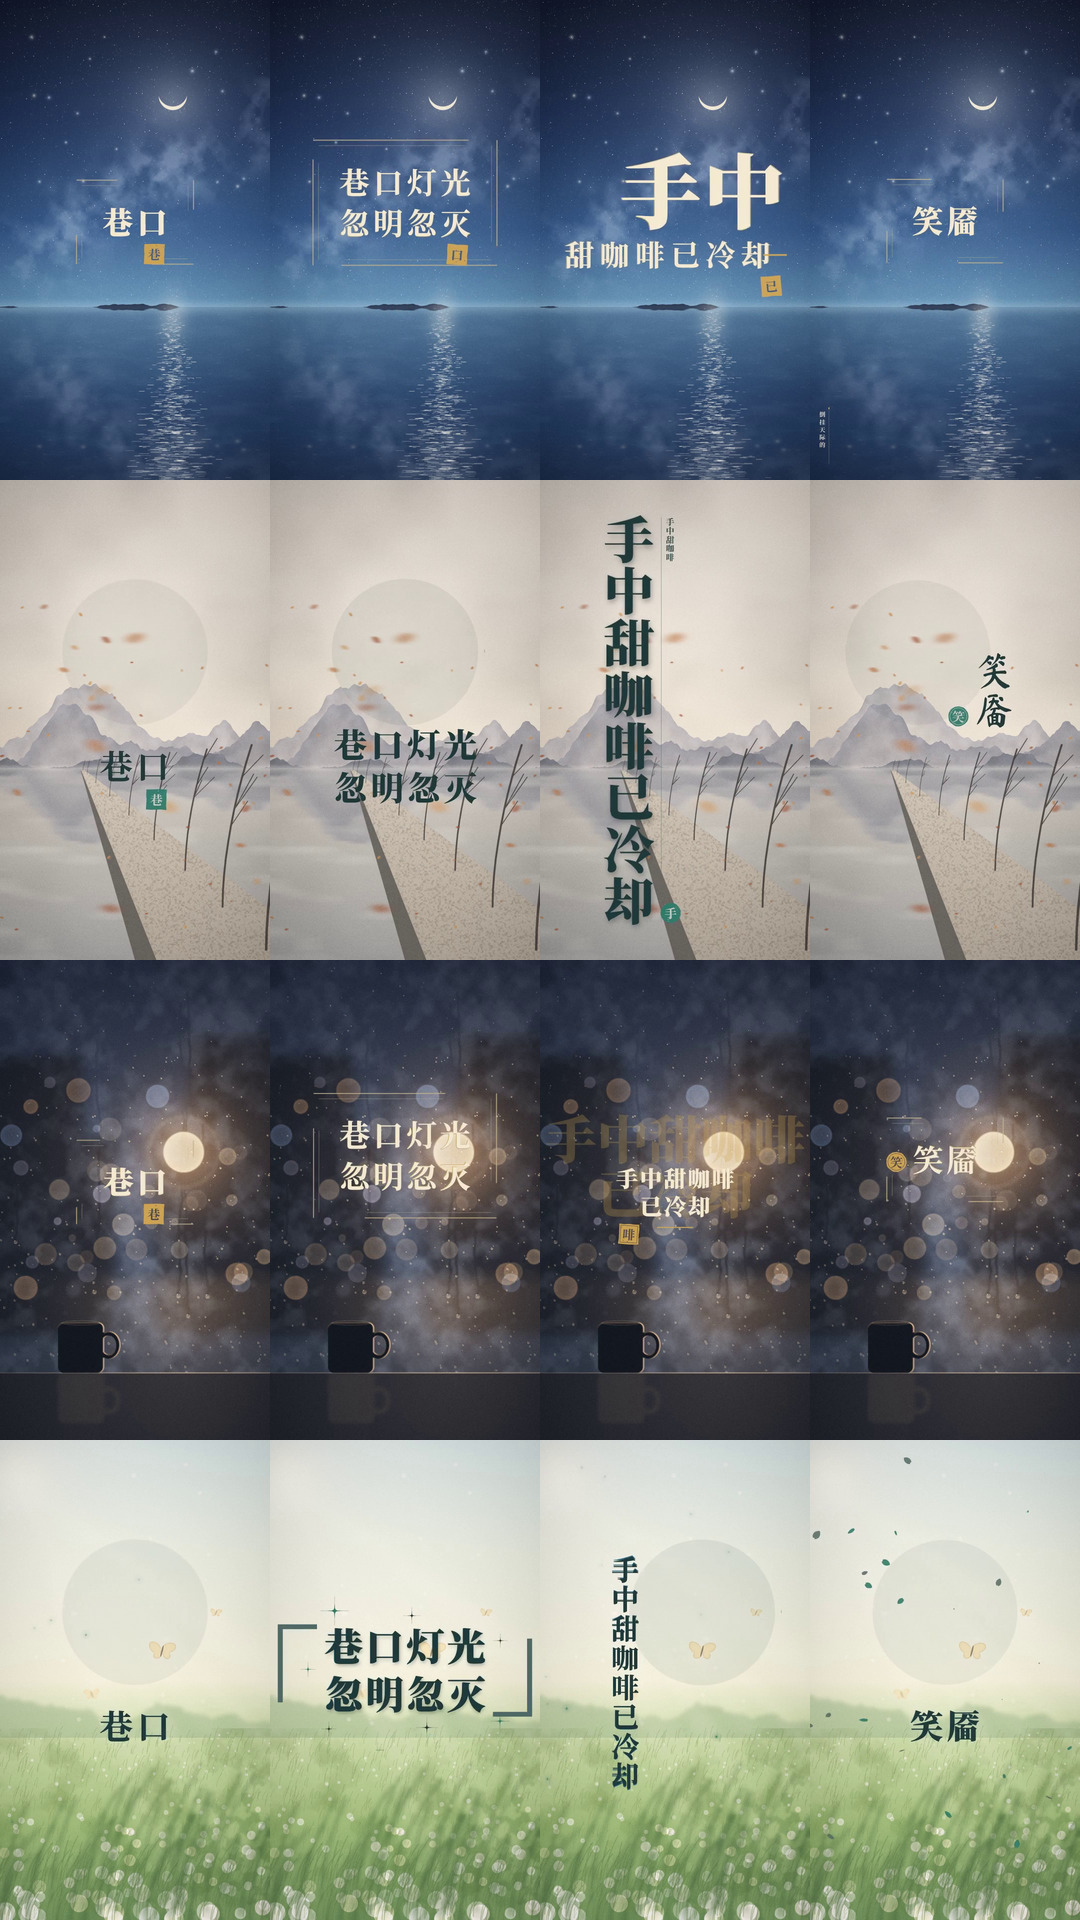
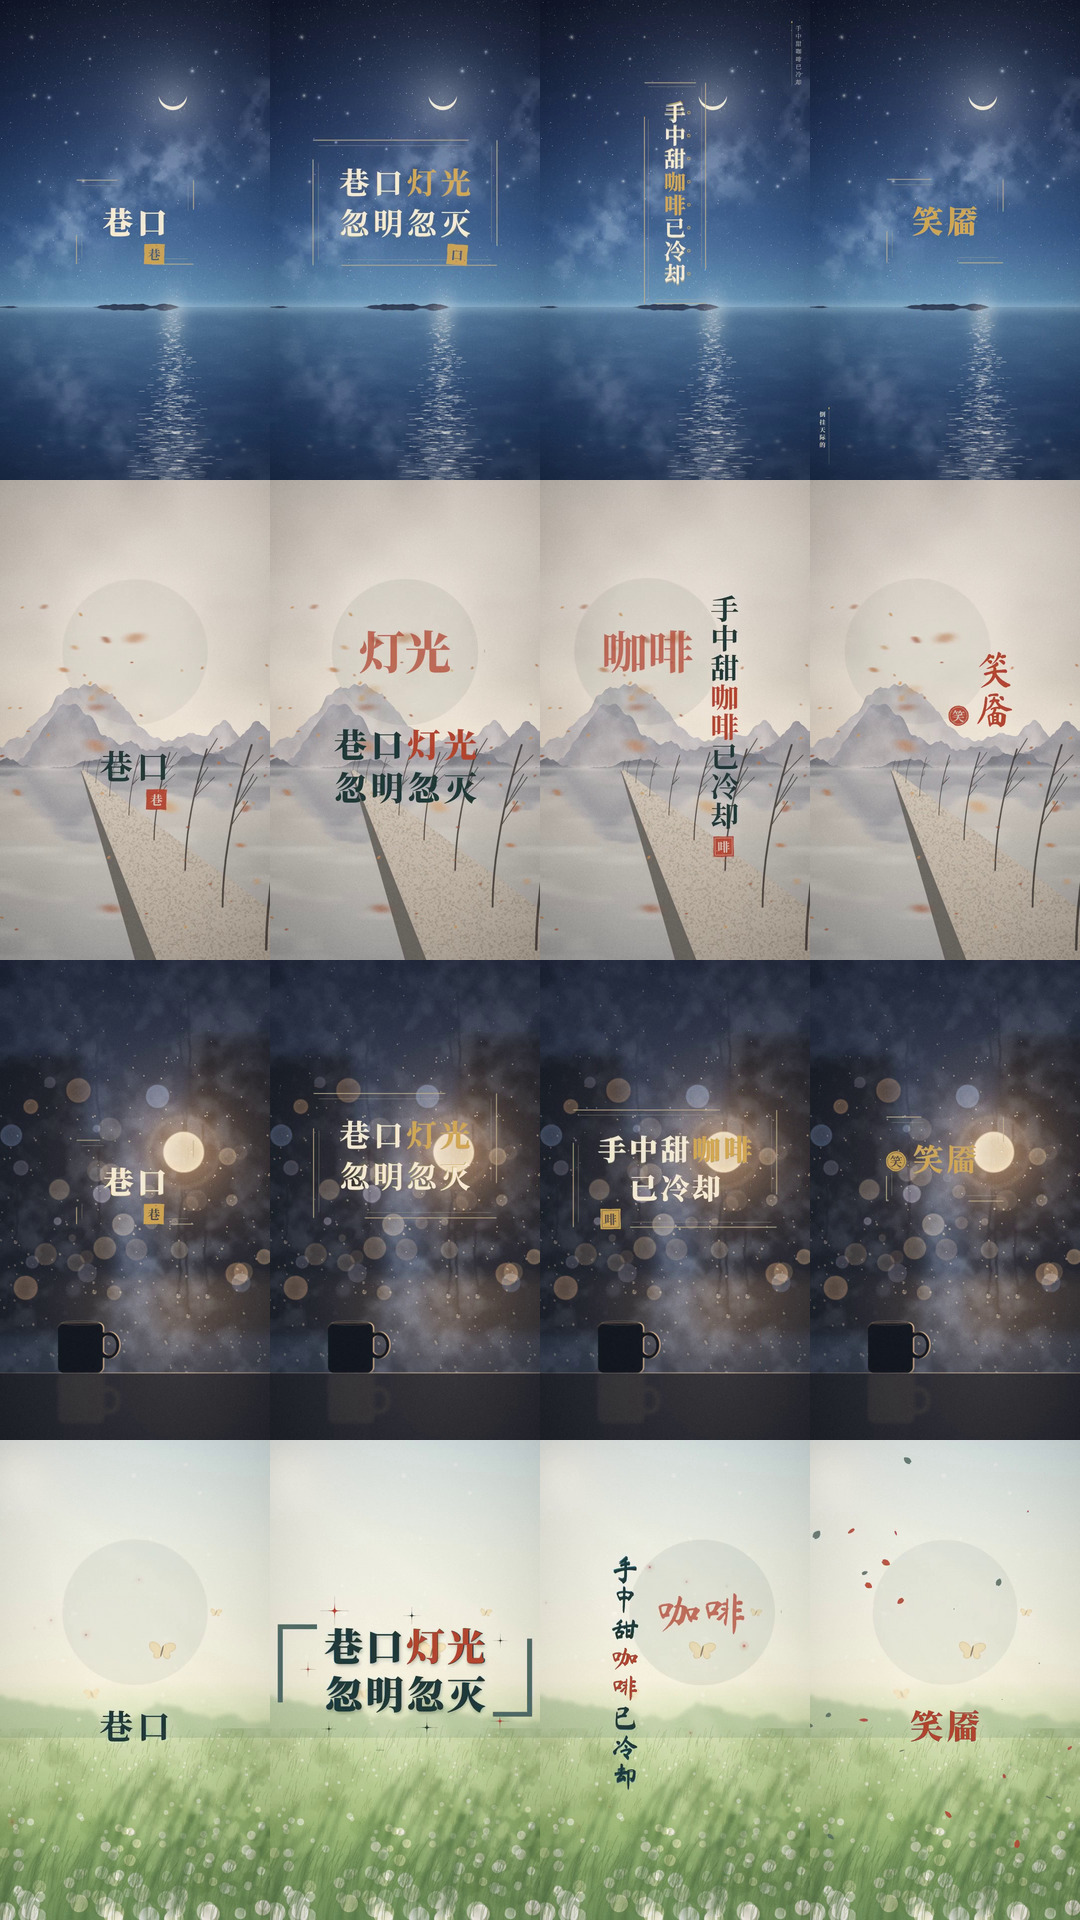
JIZURA: 关键词突出融入新中式版式
- {关键词} 按行传进版式；所有版式里关键词逐字换成强调色
- 诗笺加着重号、错落把关键词做标题、叠影用关键词做底纹、
  窗格 / 诗笺印章刻关键词、月轮把关键词写在月里
- 青绿山水、月白黛蓝的强调色改成朱砂 / 赭石 / 月光金，和文字色拉开

Claude-Session: https://claude.ai/code/session_01AB9LkBndKdV4qLpLchswxw

diff --git a/chatcut_studio/jizura.py b/chatcut_studio/jizura.py
@@ -287,6 +287,27 @@ J.splitLines = (text, maxPer) => {
   }
   // 按词把一句分成 n 段（竖排分列 / 错落分组用）
   const splitN = (text, n) => n <= 1 ? [text] : J.splitLines(text, Math.ceil([...text].length / n)).split('\n');
+  // 关键词：歌词里用 {词} 标出的词（在 JIZURA 里是强调词），按行号查；版式里用 kwIn 取这一镜头里的那个词
+  const kwOf = env => (window.CN_KW && window.CN_KW[env.cut.line | 0]) || [];
+  const kwIn = (env, text) => kwOf(env).filter(w => w !== strip(text)).filter(w => w && strip(text).includes(w)).sort((a, b) => b.length - a.length)[0] || '';
+  const kwMask = (text, words) => {
+    const s = strip(text), m = new Array([...s].length).fill(false);
+    for (const w of words) for (let i = s.indexOf(w); i >= 0; i = s.indexOf(w, i + w.length)) {
+      const st = [...s.slice(0, i)].length; for (let k = 0; k < [...w].length; k++) m[st + k] = true;
+    }
+    return m;
+  };
+  // 所有版式的正文里，关键词的字换成强调色（逐字 charFn，入场 / 出场动画照常）
+  const origMain = J.mainDraw;
+  J.mainDraw = (env, it) => {
+    const words = it.noKw ? [] : kwOf(env);
+    const mask = words.length && typeof it.text === 'string' ? kwMask(it.text, words) : null;
+    if (!mask || !mask.some(Boolean)) return origMain(env, it);
+    if (it.color === env.sc.accent) it.color = env.sc.fg;      // 整句本来就是强调色时，正文退回正常色，只留关键词
+    const col = it.kwColor || env.sc.accent, hi = i => mask[i] ? { color: col } : null, cc = J.combineChar;
+    J.combineChar = fns => cc(fns.concat([hi]));
+    try { return origMain(env, it); } finally { J.combineChar = cc; }
+  };
   const reg = (key, def) => J.register('layout', key, Object.assign({ w: 1.6, portrait: 1.6, tags: ['calm', 'editorial'] }, def), PK);
 
   /* 诗笺：竖排正文（多列从右往左）+ 一侧发丝线 + 列尾朱印 */
@@ -298,16 +319,20 @@ J.splitLines = (text, maxPer) => {
       const cols = splitN(text, n > 14 ? 3 : n > 7 ? 2 : 1), per = Math.max(...cols.map(c => [...c].length));
       const size = Math.min(H * 0.5 / per, W * (cols.length > 1 ? 0.12 : 0.15));
       const gap = size * 1.55, cx = W * (0.5 + P.side * 0.1), cy = H * P.y, colH = per * size * 1.04;
-      let bb = null;
+      let bb = null, gi = 0;
+      const kw = kwIn(env, text), mask = kwMask(text, kw ? [kw] : []), da = tin(env, 0.45, 0.3) * tout(env);
       cols.forEach((c, i) => {   // 第一列在最右
         const x = cx + ((cols.length - 1) / 2 - i) * gap;
         const top = cy - colH / 2, h = [...c].length * size * 1.04;
         bb = union(bb, J.mainDraw(env, { text: c, font: P.font, size, x, y: top + h / 2, vertical: true, track: 0.04, color: sc.fg, mi: i * 3 }));
+        [...c].forEach((_, j) => {   // 着重号：竖排时点在字的右侧
+          if (mask[gi++] && da > 0.01) env.circle(x + size * 0.7, top + (j + 0.5) * size * 1.04, size * 0.065, sc.accent, null, 0, da, false);
+        });
       });
       const e = tin(env, 0.1, 0.9) * tout(env);
       const lx = cx - P.side * ((cols.length - 1) / 2 * gap + size * 0.95), y0 = cy - colH / 2 - size * 0.4;
       env.line([[lx, y0], [lx, y0 + (colH + size * 1.4) * e]], sc.sub, hair(env), 0.55, false);
-      if (P.seal) seal(env, firstHan(text), cx - P.side * ((cols.length - 1) / 2 * gap) , cy + colH / 2 + size * 0.75, size * 0.48, tin(env, 0.45, 0.35) * tout(env), P.font);
+      if (P.seal || kw) seal(env, firstHan(kw || text), cx - P.side * ((cols.length - 1) / 2 * gap) , cy + colH / 2 + size * 0.75, size * 0.48, tin(env, 0.45, 0.35) * tout(env), P.font);
       return bb;
     },
   });
@@ -320,7 +345,8 @@ J.splitLines = (text, maxPer) => {
       const { W, H, sc } = env, P = env.cut.params, text = strip(env.cut.text);
       let units = J.chunkText(text).map(strip).filter(Boolean);
       if (units.length < 2) { const a = [...text]; const k = Math.ceil(a.length / 2); units = [a.slice(0, k).join(''), a.slice(k).join('')]; }
-      const head = units[0], rest = units.slice(1).join('');
+      const kw = kwIn(env, text);
+      const head = kw || units[0], rest = kw ? text : units.slice(1).join('');
       const bs = Math.min(W * 0.8 / [...head].length, W * 0.3), ss = Math.min(bs * 0.36, W * 0.82 / Math.max(1, [...rest].length) / 1.2);
       const bw = meas(head, P.big, bs).w, sw = meas(rest, P.small, ss, { track: 0.18 }).w;
       const L = W * 0.1, R = W * 0.9, by = H * P.y, sy = by + bs * 0.78;
@@ -340,7 +366,8 @@ J.splitLines = (text, maxPer) => {
     plan: (rng, cut, st) => ({ font: rng.pick(fo(st, ['display'])), up: rng.pick([1, -1]) }),
     render(env) {
       const { W, H, sc } = env, P = env.cut.params, text = strip(env.cut.text), n = [...text].length;
-      const back = n > 6 ? J.splitLines(text, Math.ceil(n / 2)) : text;
+      const kw = kwIn(env, text);
+      const back = kw || (n > 6 ? J.splitLines(text, Math.ceil(n / 2)) : text);
       const es = J.fitSize(back, P.font, W * 0.94, H * 0.36, { lead: 1.05 }) * (1 + 0.04 * J.clamp(env.lt / Math.max(0.5, env.cut.dur)));
       const front = n > 7 ? J.splitLines(text, Math.ceil(n / 2)) : text;
       const fs = Math.min(es * 0.42, J.fitSize(front, P.font, W * 0.7, H * 0.2, { track: 0.08, lead: 1.25 }));
@@ -374,7 +401,8 @@ J.splitLines = (text, maxPer) => {
       };
       frame(x0, y0, x1, y1, lw * 2.2, 0.75); frame(x0 + g, y0 + g, x1 - g, y1 - g, lw, 0.5);
       const bb = J.mainDraw(env, { text: t, font: P.font, size, x: cx, y: cy, vertical: vert, track: vert ? 0.04 : 0.1, lead: 1.35, color: sc.fg });
-      if (P.seal) seal(env, firstHan(text), x1, y1, size * 0.5, tin(env, 0.7, 0.35) * tout(env), P.font);
+      const kw = kwIn(env, text);
+      if (P.seal || kw) seal(env, firstHan(kw || text), x1, y1, size * 0.5, tin(env, 0.7, 0.35) * tout(env), P.font);
       return bb;
     },
   });
@@ -388,6 +416,8 @@ J.splitLines = (text, maxPer) => {
       const R = W * 0.27, mx = W / 2 + (P.mode === 'v' ? -P.side * W * 0.1 : 0), my = H * 0.36;
       const e = tin(env, 0, 1.2) * tout(env);
       env.circle(mx, my, R * (0.96 + 0.04 * e), sc.fg, null, 0, 0.09 * e, false);
+      const kw = kwIn(env, text);
+      if (kw) env.draw({ text: kw, font: P.font, size: Math.min(R * 1.25 / [...kw].length, R * 0.8), x: mx, y: my, color: sc.accent, alpha: 0.85 * e, ghost: false });
       if (P.ring) env.arc(mx, my, R * 1.08, -Math.PI / 2, -Math.PI / 2 + Math.PI * 2 * E.inOutCubic(J.clamp(env.lt / 1.4)), sc.sub, hair(env), 0.55 * tout(env), false);
       if (P.mode === 'v' && n <= 9) {
         const size = Math.min(H * 0.46 / n, W * 0.14), h = n * size * 1.04;
@@ -414,10 +444,10 @@ const CN_STYLES = {
                          S('#F3E9D2', '#2B2216', '#6B5A3E', '#A67C2E', '#2B2216', '#E6D9BC', '#B39B6E', '#A67C2E')] },
   cn_qinglv: { name: '青绿山水', fonts: { display: ['brush', 'mincho_black'], serif: ['mincho_bold'], body: ['klee'], mono: ['mono'] },
                schemes: [S('#0F1C1C', '#EEF2E8', '#A9C1B5', '#6DB596', '#8EC0D2', '#1A2C2B', '#4E7F73', '#8EC0D2'),
-                         S('#EEF0E6', '#1F3B3A', '#4F6B66', '#2E7D6B', '#2E6E8E', '#DDE3D6', '#8FB0A4', '#2E6E8E')] },
+                         S('#EEF0E6', '#1F3B3A', '#4F6B66', '#B5452E', '#2E6E8E', '#DDE3D6', '#8FB0A4', '#2E6E8E')] },
   cn_moon:   { name: '月白黛蓝', fonts: { display: ['klee', 'mincho_bold'], serif: ['mincho'], body: ['klee'], mono: ['mono'] },
-               schemes: [S('#101722', '#EAF0F5', '#A9B8C8', '#9CC3D5', '#EAF0F5', '#1B2433', '#5B708A', '#9CC3D5'),
-                         S('#EEF2F5', '#26324A', '#5A6680', '#4A6E98', '#26324A', '#DDE4EB', '#9AA8BC', '#4A6E98')] },
+               schemes: [S('#101722', '#EAF0F5', '#A9B8C8', '#E3BE7A', '#EAF0F5', '#1B2433', '#5B708A', '#9CC3D5'),
+                         S('#EEF2F5', '#26324A', '#5A6680', '#B0623A', '#26324A', '#DDE4EB', '#9AA8BC', '#4A6E98')] },
   cn_rouge:  { name: '胭脂', fonts: { display: ['mincho_black', 'klee'], serif: ['mincho_bold'], body: ['mincho'], mono: ['mono'] },
                schemes: [S('#170D10', '#FBF0EE', '#D9B8B6', '#E2677A', '#F3C9A8', '#2A1519', '#8E4B57', '#E2677A'),
                          S('#F8ECEA', '#3A1A20', '#7A4E55', '#9D2933', '#3A1A20', '#EEDAD6', '#C79AA0', '#9D2933')] },
@@ -482,6 +512,7 @@ window.CS = {
     }
     window.PROJ = p;
     window.PLAN = J.plan(p, audio);
+    window.CN_KW = PLAN.lines.map(l => l.emph || []);      // 每行的关键词，给中式版式用
     const fixedSchemes = fixSchemes(PLAN, a.bgLums);
     await J.ensureFonts(p.lyrics.replace(/\[[^\]]*\]/g, '') + '0123456789', J.fontsOfPlan(PLAN));
     window.R = new J.Renderer();

diff --git a/chatcut_studio/tests/test_jizura.py b/chatcut_studio/tests/test_jizura.py
@@ -49,6 +49,7 @@ def test_chinese_themes():
     assert "columnsBig" not in jizura.THEMES["叠字国潮"]["allow"]["layout"]      # 大字居中已去掉
     for key in ("cnPoem", "cnStagger", "cnEcho", "cnFrame", "cnMoon"):           # 我们新加的中式版式
         assert f"reg('{key}'" in js and any(key in t["allow"]["layout"] for t in jizura.THEMES.values())
+    assert "window.CN_KW = PLAN.lines.map" in js and "J.mainDraw = (env, it)" in js   # {关键词} 传到版式里突出
     for face in ("dela", "reggae", "potta", "round", "pop", "kiwi", "klee"):  # 卡通 / 日文字体都换成宋、楷、书法
         assert face + ":" in js.replace(" ", "")
 

diff --git a/chatcut_studio/README.md b/chatcut_studio/README.md
@@ -55,6 +55,7 @@ python3 -m chatcut_studio.fake_chatcut              # 本地假 ChatCut（http:/
 | 中文分镜 | JIZURA 按日文规则切分，会把中文拆在词中间（「笑｜靥」「咖｜啡」）。改为按词切：连续单字两两成词、「与／和」连接左右、助词语气词向前黏、落单的字向后黏，关键词不拆；多行换行和版式内部拆词也按词来。拿不准的句子可以在歌词里用 `/` 手动断开 |
 | 四套中文主题 | 从部件库挑出白名单：**宋韵留白**（诗笺、错落、窗格、宋体大字、留白）、**水墨书法**（诗笺、月轮、窗格，书法字、墨晕 / 笔顺入场）、**叠字国潮**（叠影、错落、窗格，新中式金色）、**清新诗意**（诗笺、月轮、错落，楷体、「」引号、萤火、花瓣）。只保留干净的版式：一屏一句、一个视觉焦点。去掉了恐怖部件、故障风、霓虹、日文装饰、HUD、「No.04」这类编号，以及显得混乱的部件：巨字裁切出画、关键字拆行、同一句重复多遍（vcols / zoomRepeat）、描边回声 / 多重阴影、挂轴、横穿文字的笔刷、大字水印 |
 | 新中式版式 | 用 JIZURA 已有的部件（竖排、印章、细线、残影、圆、版框）组合出 5 个新版式，注册进 JIZURA，入场 / 出场动画照常可用：**诗笺**（竖排正文，多列从右往左，一侧发丝线，列尾朱印）、**错落**（第一个词放大，其余小字错开落在下方，朱色短线相连）、**叠影**（同一句放大成淡淡的底纹，正文压在下半部分）、**窗格**（古籍版框式双线框，四边从角上画出，右下角压印）、**月轮**（一轮淡圆，竖排正文贴着圆的一侧或横排落在圆下） |
+| 关键词突出 | 歌词里 `{词}` 标出的关键词会传进每个版式：所有版式里关键词换成强调色（整句本来是强调色时，正文退回正常色）；**诗笺**在关键词右侧加着重号、印章刻关键词首字；**错落**把关键词放大做标题、整句小字落在下方；**叠影**放大做底纹的是关键词；**窗格**印章刻关键词；**月轮**把关键词写在月轮里 |
 | 中文审美 | 换掉 JIZURA 偏日系 / 卡通的字体和配色：圆体、波普、手写体统一映射到思源宋体 Heavy、霞鹜文楷、马善政书法；新增 5 套中国色配色（墨与朱砂、夜色鎏金、青绿山水、月白黛蓝、胭脂），每套有浅字、深字两种方案。背景巨字和残影的颜色按背景图平均色来混，和画面同色调，不会出现浑浊的色块 |
 | 跟背景对比 | 渲染前计算每张背景图的亮度，自动挑对比度够的配色；对比度不足 3 的镜头换成同一配色里对比度最高的方案 |
 | 本地字体 | 思源黑体 / 宋体、站酷三款、马善政从 Google Fonts 仓库、霞鹜文楷从 GitHub 发布页下载到 `~/.cache/chatcut-studio/fonts`，渲染不依赖外网 |
